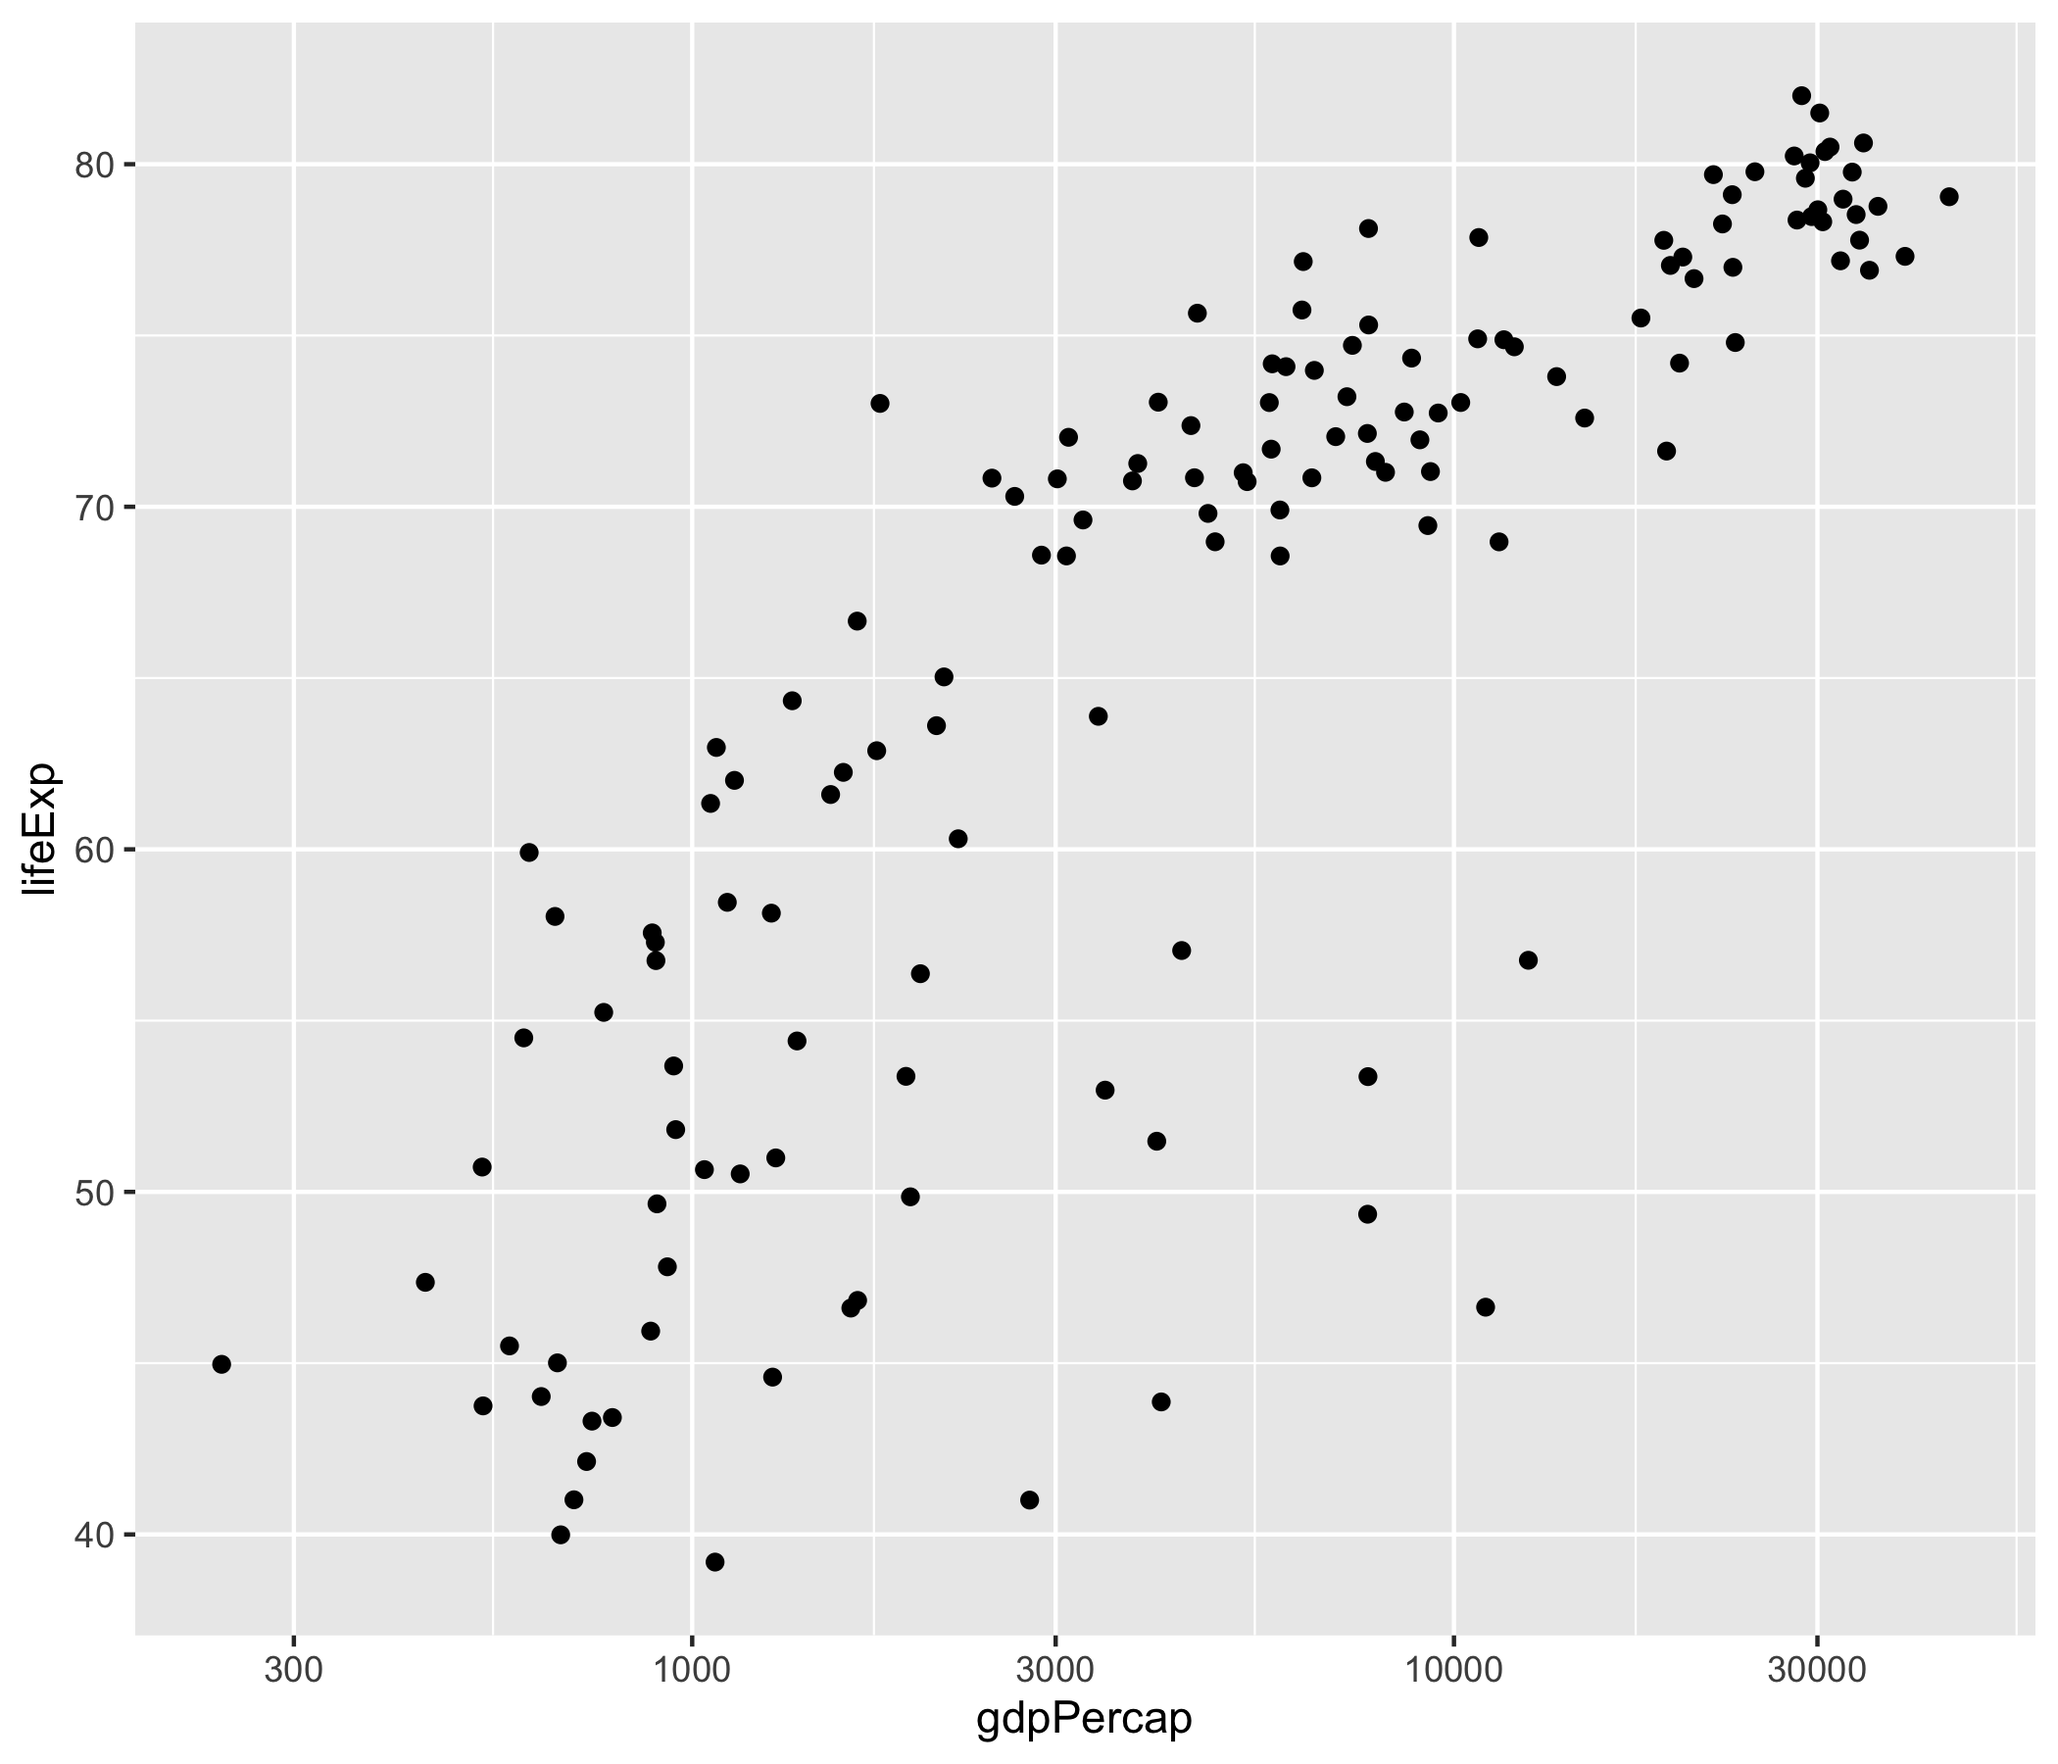
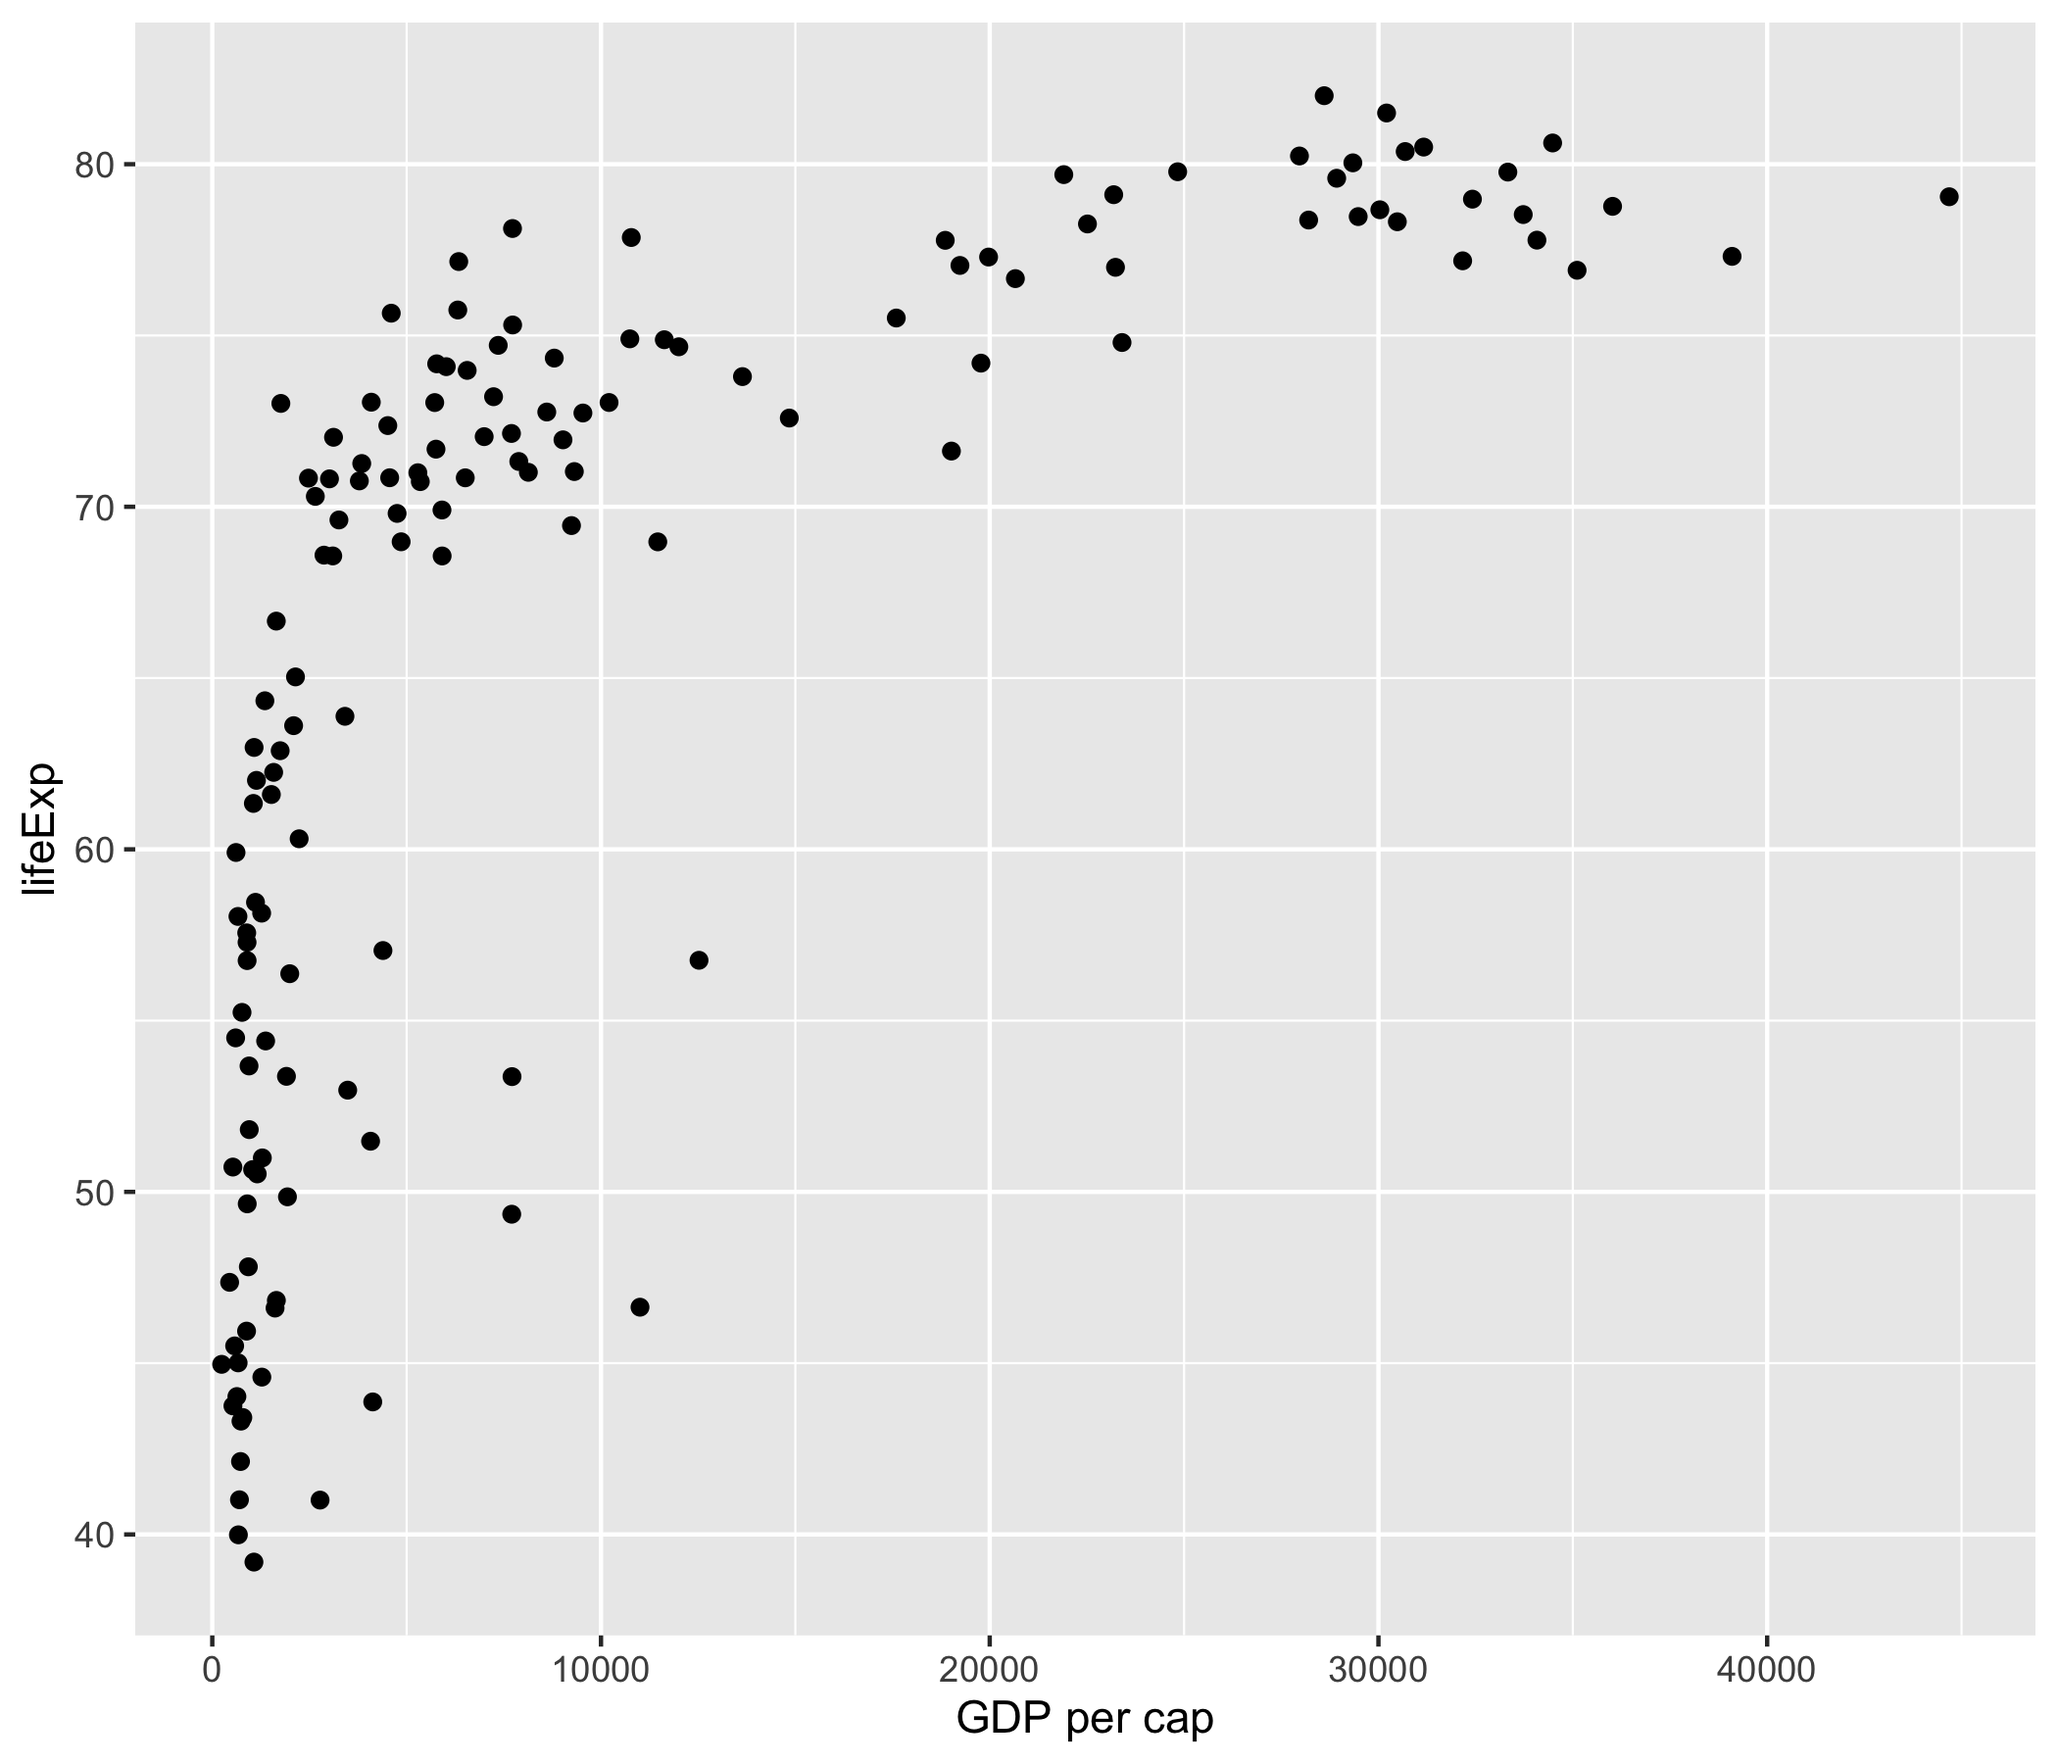
reordering modifiers

diff --git a/modifiers.html b/modifiers.html
@@ -120,7 +120,7 @@ Modifiers adjust the default associated with aesthetic representations for:
 
 name: labs
 
-## Modifying aesthetic scale labels
+## Modifiers I: aesthetic scale labels
 
 Aesthetic scales also get default *labels* which are the variable names.  We can also modify these.  
 
@@ -451,7 +451,7 @@ ggplot(data = gapminder_2002) +
 
 name: coords
 
-## Modifying x and y position coordinate system
+## Modifiers II: x and y position coordinate system
 
 A third default for how aesthetic mapping of *positions x and y* are manifest is the coordinate system.  The default is cartesian coordinates - where x lies on the horizontal and is pependicular to y.  
 
@@ -563,7 +563,7 @@ ggplot(data = gapminder_2002) +
 
 name: scales
 
-## Modifying aesthetic scales 
+## Modifiers III: aesthetic mapping (representation) scales 
 
 With the aes() statement we have declared a variable mapped to an aesthetic, like x position, color, line width, etc.  To go back and ask for a modified scale, we use scales\_\* statements.  These statements provide a quick way to update our preferences for all the scales used for mapped aesthetics.   
 
@@ -572,22 +572,9 @@ With the aes() statement we have declared a variable mapped to an aesthetic, lik
 Let's look at how we modify the default scale with a scales\_\* statement.
 
 
-
 ---
 
-name: scales
-
-## Modifying aesthetic scales 
-
-With the aes() statement we have declared a variable mapped to an aesthetic, like x position, color, line width, etc.  To go back and ask for a modified scale, we use scales\_\* statements.  These statements provide a quick way to update our preferences for all the mapped aesthetics.   
-
-&lt;!-- Start with a scales_x_* and look at the variety of scale options associated with the x position aesthetic.   --&gt;
-
-Let's look at how we modify the default scale with a scales\_\* statement. 
-
----
-
-## Scales
+### Scales statements
 
 
 There are a variety of scaling alternatives for the x position aesthetic:  
@@ -1032,179 +1019,6 @@ For a full tour of scale modifications check out the [scales second look](https:
 
 
 
-
-class: split-40
-count: false
- 
-
- 
-.column[.content[
-
-```r
-*ggplot(data = gapminder_2002)
-```
-]]
-.column[.content[
-&lt;img src="modifiers_files/figure-html/coords_auto_1_output-1.png" width="100%" /&gt;
-]]
----
-class: split-40
-count: false
- 
-
- 
-.column[.content[
-
-```r
-ggplot(data = gapminder_2002) +  
-* aes(x = gdpPercap)
-```
-]]
-.column[.content[
-&lt;img src="modifiers_files/figure-html/coords_auto_2_output-1.png" width="100%" /&gt;
-]]
----
-class: split-40
-count: false
- 
-
- 
-.column[.content[
-
-```r
-ggplot(data = gapminder_2002) +  
-  aes(x = gdpPercap) +  
-* aes(y = lifeExp)
-```
-]]
-.column[.content[
-&lt;img src="modifiers_files/figure-html/coords_auto_3_output-1.png" width="100%" /&gt;
-]]
----
-class: split-40
-count: false
- 
-
- 
-.column[.content[
-
-```r
-ggplot(data = gapminder_2002) +  
-  aes(x = gdpPercap) +  
-  aes(y = lifeExp) +  
-* geom_point()
-```
-]]
-.column[.content[
-&lt;img src="modifiers_files/figure-html/coords_auto_4_output-1.png" width="100%" /&gt;
-]]
----
-class: split-40
-count: false
- 
-
- 
-.column[.content[
-
-```r
-ggplot(data = gapminder_2002) +  
-  aes(x = gdpPercap) +  
-  aes(y = lifeExp) +  
-  geom_point() +  
-* coord_cartesian()
-```
-]]
-.column[.content[
-&lt;img src="modifiers_files/figure-html/coords_auto_5_output-1.png" width="100%" /&gt;
-]]
----
-class: split-40
-count: false
- 
-
- 
-.column[.content[
-
-```r
-ggplot(data = gapminder_2002) +  
-  aes(x = gdpPercap) +  
-  aes(y = lifeExp) +  
-  geom_point() +  
-  coord_cartesian() +  
-* coord_equal()
-```
-]]
-.column[.content[
-&lt;img src="modifiers_files/figure-html/coords_auto_6_output-1.png" width="100%" /&gt;
-]]
----
-class: split-40
-count: false
- 
-
- 
-.column[.content[
-
-```r
-ggplot(data = gapminder_2002) +  
-  aes(x = gdpPercap) +  
-  aes(y = lifeExp) +  
-  geom_point() +  
-  coord_cartesian() +  
-  coord_equal() +  
-* coord_fixed(ratio = 400)
-```
-]]
-.column[.content[
-&lt;img src="modifiers_files/figure-html/coords_auto_7_output-1.png" width="100%" /&gt;
-]]
----
-class: split-40
-count: false
- 
-
- 
-.column[.content[
-
-```r
-ggplot(data = gapminder_2002) +  
-  aes(x = gdpPercap) +  
-  aes(y = lifeExp) +  
-  geom_point() +  
-  coord_cartesian() +  
-  coord_equal() +  
-  coord_fixed(ratio = 400) +  
-* coord_flip()
-```
-]]
-.column[.content[
-&lt;img src="modifiers_files/figure-html/coords_auto_8_output-1.png" width="100%" /&gt;
-]]
----
-class: split-40
-count: false
- 
-
- 
-.column[.content[
-
-```r
-ggplot(data = gapminder_2002) +  
-  aes(x = gdpPercap) +  
-  aes(y = lifeExp) +  
-  geom_point() +  
-  coord_cartesian() +  
-  coord_equal() +  
-  coord_fixed(ratio = 400) +  
-  coord_flip() +  
-* coord_polar()
-```
-]]
-.column[.content[
-&lt;img src="modifiers_files/figure-html/coords_auto_9_output-1.png" width="100%" /&gt;
-]]
-
-
 ---
 
 ## Modifiers - Review
@@ -1301,7 +1115,7 @@ ggplot(data = gapminder_2002) +
   aes(x = gdpPercap) +  
   aes(y = lifeExp) +  
   geom_point() +  
-* scale_x_log10()   # modify x scale
+* labs(x = "GDP per cap")   # modify x label
 ```
 ]]
 .column[.content[
@@ -1320,8 +1134,8 @@ ggplot(data = gapminder_2002) +
   aes(x = gdpPercap) +  
   aes(y = lifeExp) +  
   geom_point() +  
-  scale_x_log10() +  # modify x scale
-* labs(x = "GDP per cap")   # modify x label
+  labs(x = "GDP per cap") +  # modify x label 
+* coord_polar()   # modify x and y coordinate system
 ```
 ]]
 .column[.content[
@@ -1340,9 +1154,9 @@ ggplot(data = gapminder_2002) +
   aes(x = gdpPercap) +  
   aes(y = lifeExp) +  
   geom_point() +  
-  scale_x_log10() +  # modify x scale
   labs(x = "GDP per cap") +  # modify x label 
-* coord_polar()  # modify x and y coordinate system
+  coord_polar() +  # modify x and y coordinate system
+* scale_x_log10()  # modify x scale
 ```
 ]]
 .column[.content[
